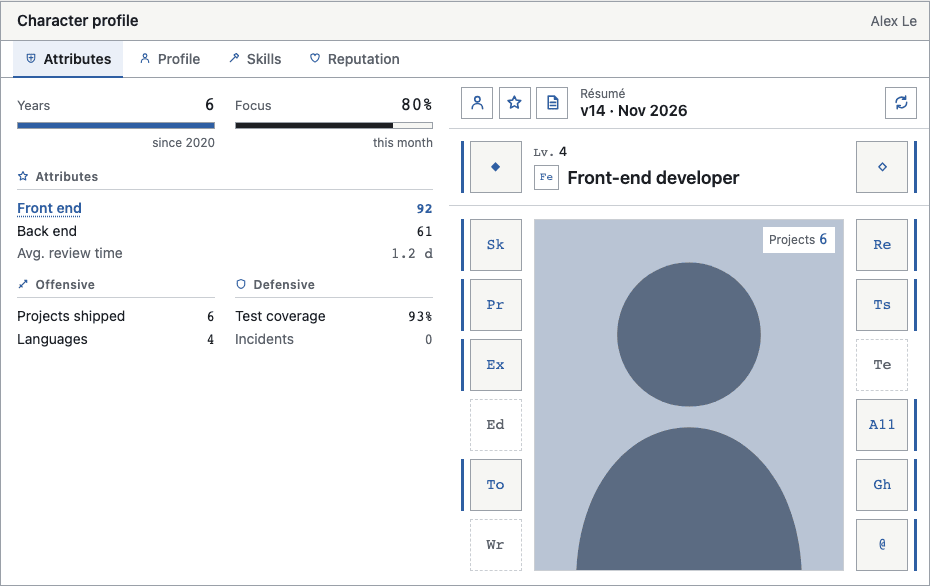
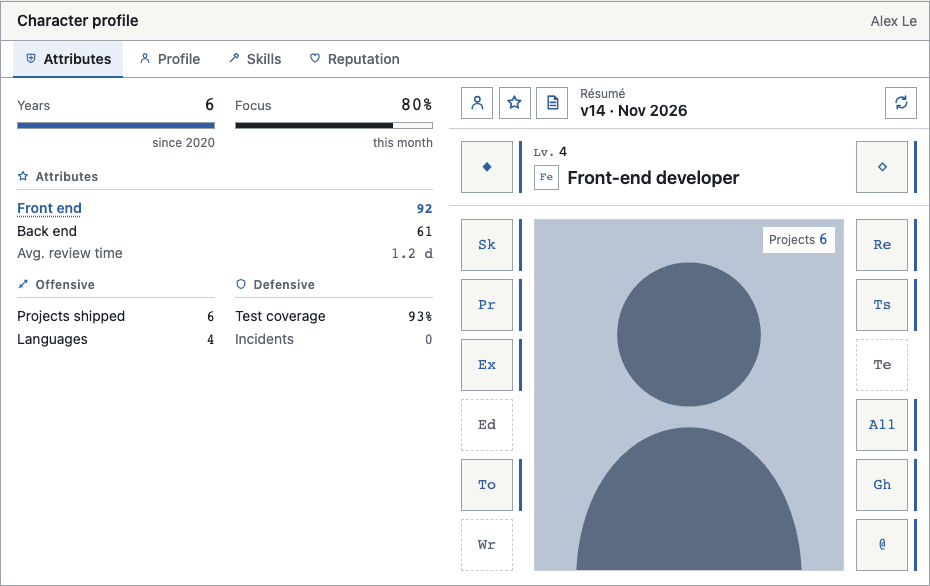
style: every slot's rail on the right of its square

diff --git a/browser/layout.spec.ts b/browser/layout.spec.ts
@@ -73,6 +73,38 @@ test("wide: the portrait sits between the columns, slot names hidden", async ({ 
   await expect(slot(page, "Skills")).toHaveAccessibleName("Skills");
 });
 
+for (const theme of ["document", "game"]) {
+  test(`wide, ${theme} theme: every filled slot's rail is on its right, inside its column`, async ({ page }) => {
+    await page.goto(`/?view=equipment&fixture=portfolio&theme=${theme}`);
+    const rails = await page.locator(".cs__slots .cs-slot").evaluateAll((slots) =>
+      slots.flatMap((item) => {
+        const rail = getComputedStyle(item, "::before");
+        if (rail.display === "none") return [];
+        // The rail is absolutely placed against the slot by its `right`.
+        const slotBox = item.getBoundingClientRect();
+        const railRight = slotBox.right - parseFloat(rail.right);
+        return [
+          {
+            column: item.closest(".cs__slots")!.className,
+            squareRight: item.querySelector(".cs-slot__face")!.getBoundingClientRect().right,
+            railLeft: railRight - parseFloat(rail.width),
+            railRight,
+            columnRight: item.closest(".cs__slots")!.getBoundingClientRect().right,
+          },
+        ];
+      }),
+    );
+    // Filled slots in all four columns, so each column's rule is checked.
+    for (const column of ["left", "right", "header-start", "header-end"]) {
+      expect(rails.some((rail) => rail.column.includes(`cs__slots--${column}`)), column).toBe(true);
+    }
+    for (const rail of rails) {
+      expect(rail.railLeft, rail.column).toBeGreaterThan(rail.squareRight);
+      expect(rail.railRight, rail.column).toBeLessThanOrEqual(rail.columnRight + 0.5);
+    }
+  });
+}
+
 test("narrow (below 26rem): portrait on top, slots in rows of three with names", async ({ page }) => {
   await page.goto("/?view=equipment&fixture=portfolio&theme=document&width=22");
   const portrait = await box(page, ".cs__portrait");

diff --git a/src/character-panel.css b/src/character-panel.css
@@ -376,21 +376,13 @@ button.cs__gear-button:hover,
   padding-block: 0.85rem;
 }
 
+/* Squares sit at each column's start, with room after them for their
+   rails, which run along their right side in every column. */
 .cs__slots {
   display: flex;
   flex-direction: column;
-  gap: var(--cs-slot-gap);
-}
-
-/* Squares sit against the portrait; the rails run along the outer edge. */
-.cs__slots--left,
-.cs__slots--header-start {
-  align-items: flex-end;
-}
-
-.cs__slots--right,
-.cs__slots--header-end {
   align-items: flex-start;
+  gap: var(--cs-slot-gap);
 }
 
 .cs__portrait {
@@ -453,24 +445,15 @@ button.cs__gear-button:hover,
   position: relative;
 }
 
-/* The rail: a thin bar on the slot's outer side, lit when filled. */
+/* The rail: a thin bar on the slot's right side, lit when filled. */
 .cs-slot::before {
   content: "";
   position: absolute;
   top: 0;
+  right: calc(-1 * (var(--cs-rail-width) + 0.35rem));
   height: var(--cs-slot-size);
   width: var(--cs-rail-width);
   background: var(--cs-rail);
-}
-
-.cs__slots--left .cs-slot::before,
-.cs__slots--header-start .cs-slot::before {
-  left: calc(-1 * (var(--cs-rail-width) + 0.35rem));
-}
-
-.cs__slots--right .cs-slot::before,
-.cs__slots--header-end .cs-slot::before {
-  right: calc(-1 * (var(--cs-rail-width) + 0.35rem));
 }
 
 .cs-slot--empty::before {

diff --git a/docs/roadmap.md b/docs/roadmap.md
@@ -524,6 +524,14 @@
   slot columns. Game
   theme only, as the gauges' box is; CSS only, no API change. The
   README's game screenshot is retaken.
+- Rails on the right of every slot (2026-11-26, the owner's request):
+  the left column and the header's start slots had their rails on the
+  left, mirrored with the right column's. Now each column puts its
+  squares at its start and every rail runs along the square's right
+  side, one rule for each in place of a left and a right one. A browser
+  test checks each filled slot's rail is right of its square and inside
+  its column, in all four columns and both themes (it fails on the old
+  CSS). CSS only, no API change. Both README screenshots are retaken.
 
 ## Tooling plan (done)
 

diff --git a/CHANGELOG.md b/CHANGELOG.md
@@ -22,6 +22,12 @@ A PR that changes what's published adds its line under Unreleased; the
   and the job title) sits in the same darker, rounded inset box as the
   gauges, in place of its faint gradient and bottom line. The document
   theme is unchanged.
+- A filled slot's rail (the thin bar beside its square) is on the
+  square's right in every column. Before, the left column and the
+  header's start slots had theirs on the left. Their squares move to the
+  column's start, so the rail sits between the square and the portrait.
+  Below a 26rem width, where slots have no rails, each row's slots now
+  line up at the top in the left grid as well as the right.
 
 ## [2.0.0-beta.5] - 2026-11-24
 
